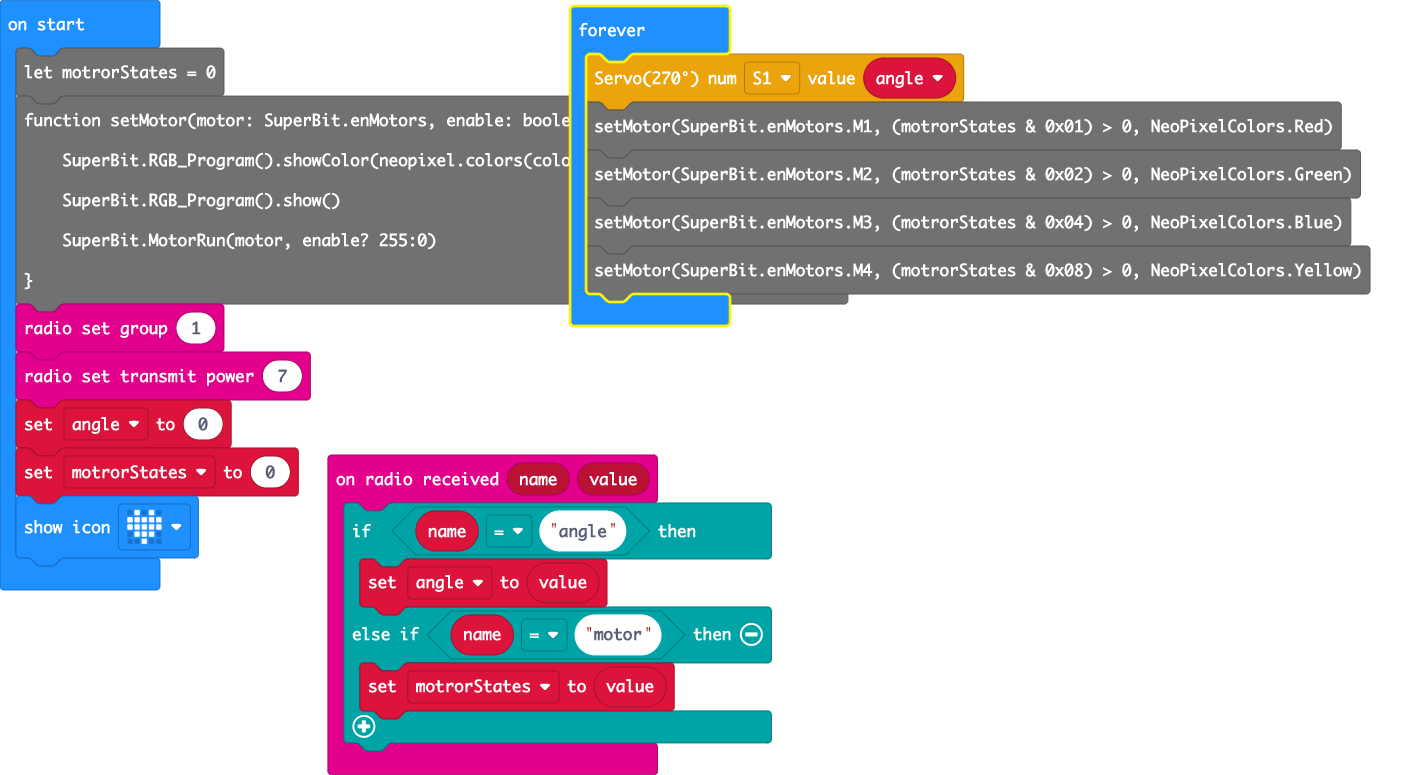
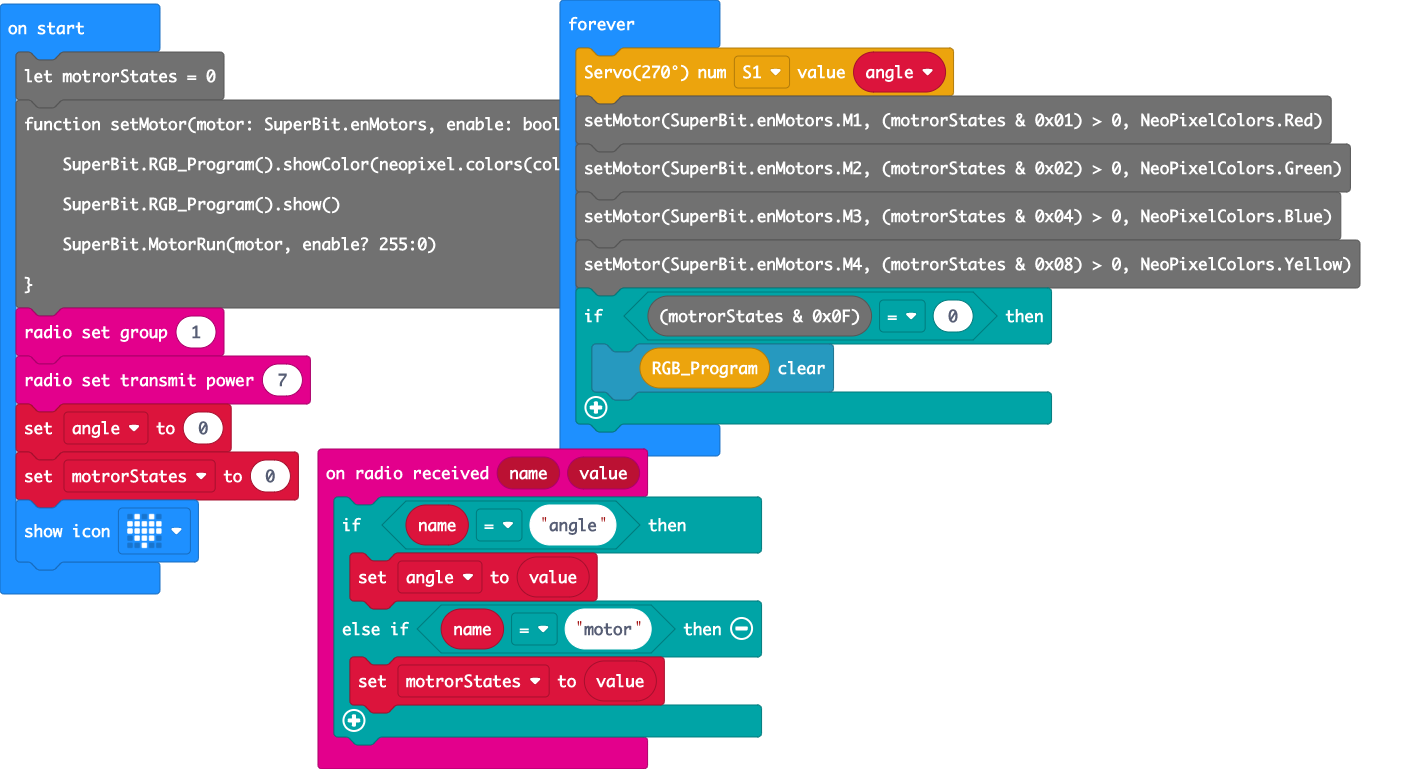
Fix bugs

diff --git a/main.ts b/main.ts
@@ -8,8 +8,10 @@ radio.onReceivedValue(function (name, value) {
 let angle = 0
 let motrorStates = 0
 function setMotor(motor: SuperBit.enMotors, enable: boolean, color: NeoPixelColors) {
-    SuperBit.RGB_Program().showColor(neopixel.colors(color))
-    SuperBit.RGB_Program().show()
+    if(enable){
+      SuperBit.RGB_Program().showColor(neopixel.colors(color))
+      SuperBit.RGB_Program().show()
+    }
     SuperBit.MotorRun(motor, enable? 255:0)
 }
 radio.setGroup(1)
@@ -23,4 +25,8 @@ basic.forever(function () {
     setMotor(SuperBit.enMotors.M2, (motrorStates & 0x02) > 0, NeoPixelColors.Green)
     setMotor(SuperBit.enMotors.M3, (motrorStates & 0x04) > 0, NeoPixelColors.Blue)
     setMotor(SuperBit.enMotors.M4, (motrorStates & 0x08) > 0, NeoPixelColors.Yellow)
+    if ((motrorStates & 0x0F) == 0) {
+        SuperBit.RGB_Program().showColor(0x00)
+        SuperBit.RGB_Program().clear()
+    }
 })
